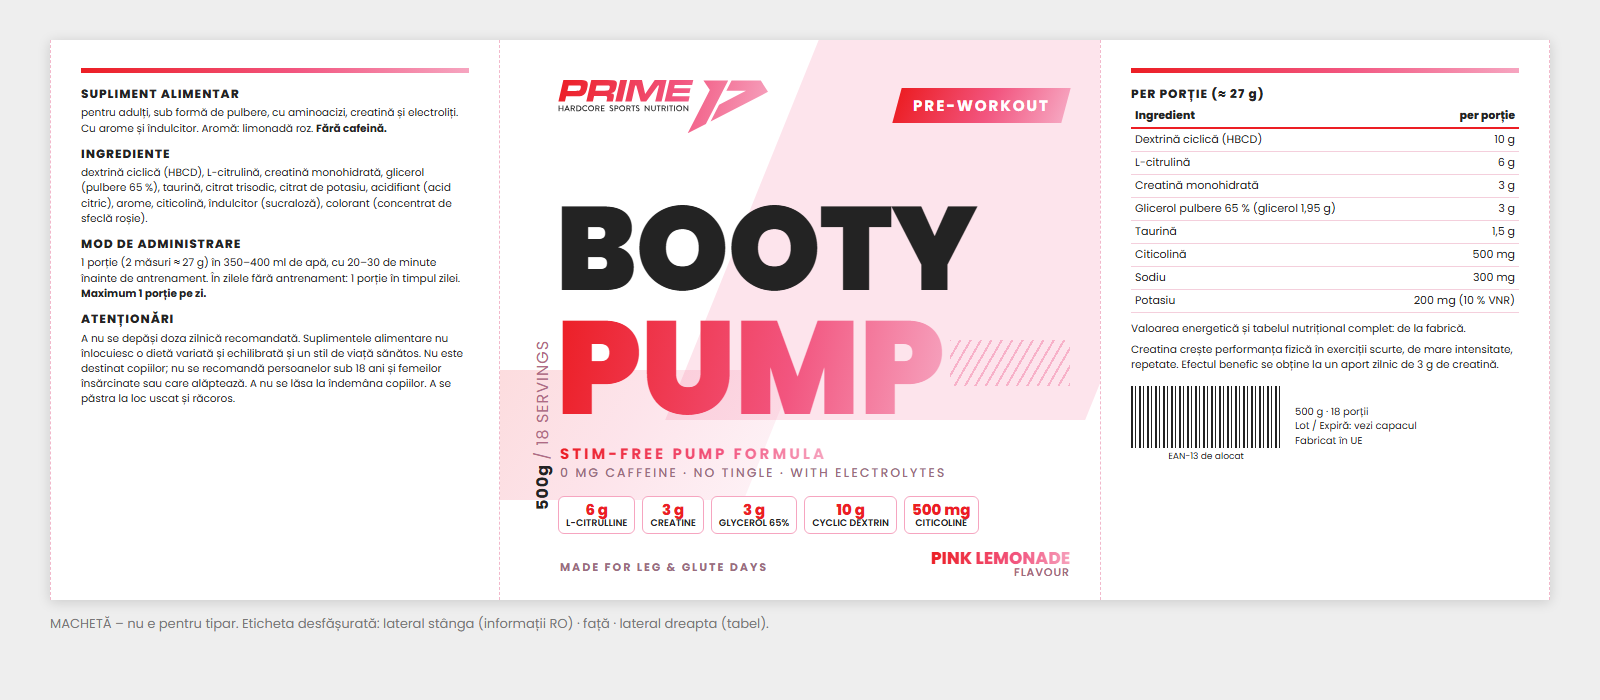
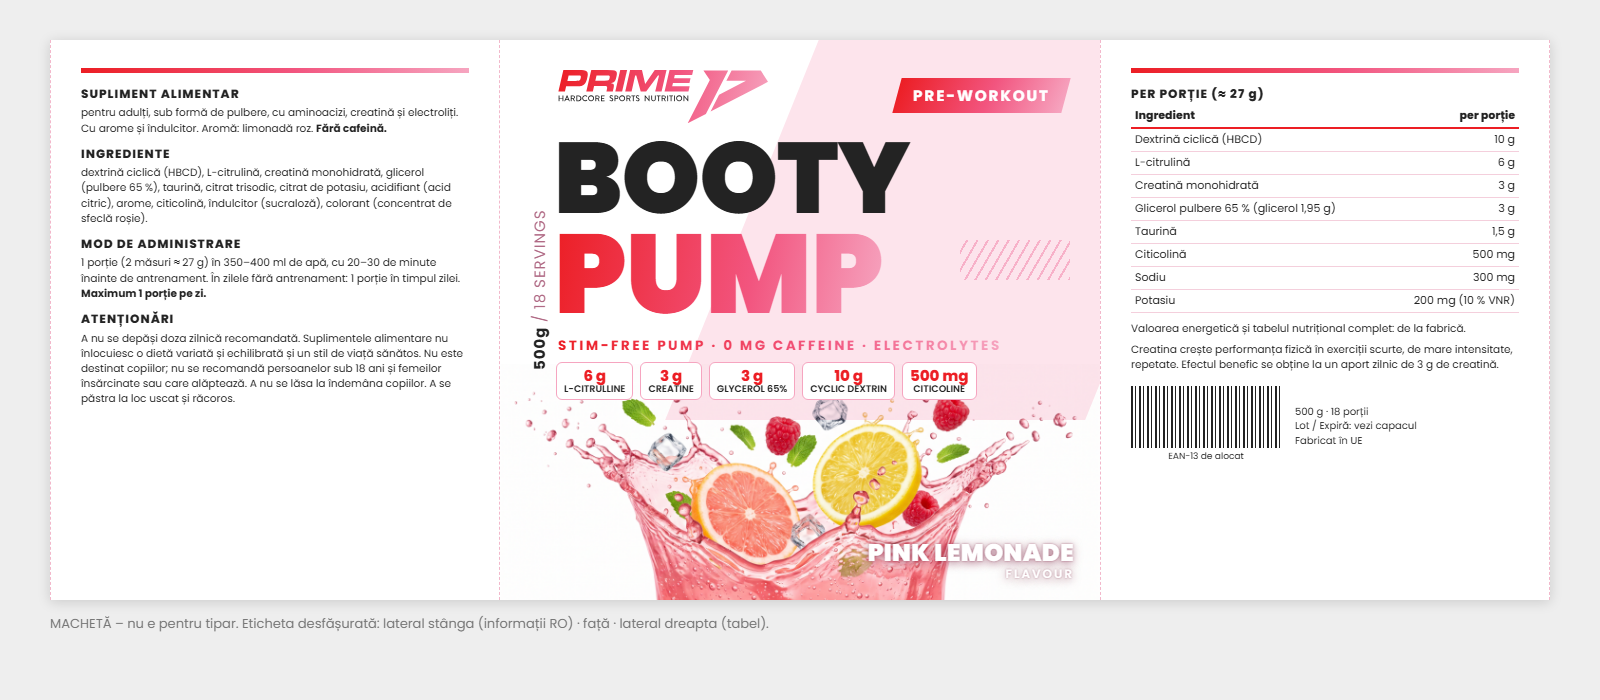
Booty Pump: macheta cu splash de aroma (Pink Lemonade, Forest Fruits)

diff --git a/primesupplements.ro-audit/produse-noi/booty-pump/macheta/macheta-flacoane.html b/primesupplements.ro-audit/produse-noi/booty-pump/macheta/macheta-flacoane.html
@@ -5,24 +5,21 @@ body{font-family:Poppins,Arial,sans-serif;color:#232323}
 .gtext{background:linear-gradient(100deg,#ec1e24 0%,#f2557f 60%,#f6a5c0 100%);-webkit-background-clip:text;background-clip:text;color:transparent}
 .front{position:relative;width:600px;height:560px;background:#fff;overflow:hidden;flex:none}
 .front .shape1{position:absolute;left:250px;top:-40px;width:420px;height:420px;background:#fde4ec;transform:skewX(-22deg)}
-.front .shape2{position:absolute;left:-60px;top:330px;width:330px;height:130px;transform:skewX(-22deg)}
-.front .lines{position:absolute;right:30px;top:300px;width:120px;height:46px;background:repeating-linear-gradient(-60deg,#f6a5c0 0 2px,transparent 2px 9px);opacity:.8}
-.front .vert{position:absolute;left:30px;top:470px;transform:rotate(-90deg);transform-origin:left top;font-size:16px;font-weight:700;letter-spacing:1px;white-space:nowrap}
+.front .lines{position:absolute;right:30px;top:200px;width:110px;height:40px;background:repeating-linear-gradient(-60deg,#f6a5c0 0 2px,transparent 2px 9px);opacity:.8}
+.front .vert{position:absolute;left:28px;top:330px;transform:rotate(-90deg);transform-origin:left top;font-size:15px;font-weight:700;letter-spacing:1px;white-space:nowrap;z-index:3}
 .front .vert span{font-weight:400;color:#b06a85}
-.front .logo{position:absolute;left:58px;top:40px}
-.front .pill{position:absolute;right:34px;top:48px;color:#fff;font-size:15px;letter-spacing:2px;padding:6px 16px;transform:skewX(-15deg)}
+.front .logo{position:absolute;left:58px;top:30px}
+.front .pill{position:absolute;right:34px;top:38px;color:#fff;font-size:15px;letter-spacing:2px;padding:6px 16px;transform:skewX(-15deg)}
 .front .pill b{display:inline-block;transform:skewX(15deg);font-weight:700}
-.front .ghost{position:absolute;left:170px;top:112px;font-size:96px;font-weight:900;letter-spacing:2px;color:transparent;-webkit-text-stroke:1.5px #f6a5c0;opacity:.9}
-.front .t1{position:absolute;left:56px;top:150px;font-size:118px;line-height:1;font-weight:900;letter-spacing:-1px;color:#232323}
-.front .t2{position:absolute;left:56px;top:262px;font-size:132px;line-height:1;font-weight:900;letter-spacing:-1px}
-.front .sub{position:absolute;left:60px;top:402px;font-size:15px;font-weight:700;letter-spacing:3px}
-.front .sub2{position:absolute;left:60px;top:424px;font-size:12.5px;font-weight:500;letter-spacing:2px;color:#9a6d7e}
-.front .badges{position:absolute;left:58px;top:456px;display:flex;gap:7px}
+.front .t1{position:absolute;left:54px;top:88px;font-size:100px;line-height:1;font-weight:900;letter-spacing:-1px;color:#232323}
+.front .t2{position:absolute;left:54px;top:178px;font-size:112px;line-height:1;font-weight:900;letter-spacing:-1px}
+.front .sub{position:absolute;left:58px;top:296px;font-size:13.5px;font-weight:700;letter-spacing:2.5px;white-space:nowrap}
+.front .badges{position:absolute;left:56px;top:322px;display:flex;gap:7px;z-index:3}
 .front .badge{border:1.5px solid #f6a5c0;border-radius:6px;padding:4px 7px;font-size:9.5px;line-height:1.15;font-weight:600;text-align:center;background:#fff}
 .front .badge b{display:block;font-size:15px;font-weight:800;color:#ec1e24}
-.front .flav{position:absolute;right:30px;bottom:22px;text-align:right;font-weight:800;font-size:17px;line-height:1}
-.front .flav small{display:block;font-weight:500;font-size:11px;color:#9a6d7e;letter-spacing:1px}
-.front .day{position:absolute;left:60px;bottom:24px;font-size:11px;font-weight:700;letter-spacing:2px;color:#9a6d7e}
+.front .splash{position:absolute;left:0;bottom:0;width:600px;height:236px;object-fit:cover;object-position:50% 80%;mix-blend-mode:multiply;z-index:1}
+.front .flav{position:absolute;right:26px;bottom:20px;text-align:right;font-weight:900;font-size:24px;line-height:1;color:#fff;letter-spacing:.5px;text-shadow:0 2px 10px rgba(110,0,40,.55),0 0 2px rgba(110,0,40,.5);z-index:3}
+.front .flav small{display:block;font-weight:600;font-size:12px;letter-spacing:2px;margin-top:3px}
 
 body{width:2000px;height:1200px;background:radial-gradient(ellipse at 50% 35%,#ffffff 0%,#fdf2f6 55%,#f7dce6 100%);position:relative;overflow:hidden}
 .floor{position:absolute;left:0;right:0;top:996px;bottom:0;background:linear-gradient(#f3d3df,#f8e3ea)}
@@ -48,15 +45,14 @@ body{width:2000px;height:1200px;background:radial-gradient(ellipse at 50% 35%,#f
   <div class="body"><div class="label">
 <div class="front">
   <div class="shape1"></div>
-  <div class="shape2 grad" style="opacity:.16"></div>
   <div class="lines"></div>
+  <img class="splash" src="splash-pink-lemonade.png" alt="">
   <div class="vert">500g <span>/ 18 SERVINGS</span></div>
   <div class="logo"><svg width="210" viewBox="0 0 226.77 57.52" xmlns="http://www.w3.org/2000/svg" ><defs><linearGradient id="a-grad" gradientUnits="userSpaceOnUse" x1="0" y1="0" x2="226.77" y2="57.52"><stop offset="0" stop-color="#ec1e24"/><stop offset=".55" stop-color="#f2557f"/><stop offset="1" stop-color="#f6a5c0"/></linearGradient><style>.a-t{fill:#232323;}.a-g{fill:url(#a-grad);}</style></defs><polygon points="226.77 12.8 164.75 44.72 173.96 26.8 203 11.53 181.81 11.53 187.46 .56 219.01 .56 226.77 12.8" class="a-g"></polygon><polygon points="183.77 .56 159.7 47.4 140.04 57.52 163.97 10.82 157.06 .56 183.77 .56" class="a-g"></polygon><path d="m.68,27.63c0-.1.08-.17.17-.17h.59c.1,0,.17.08.17.17v2.48h3.26v-2.48c0-.09.07-.17.16-.17h.59c.1,0,.17.08.17.17v5.9c0,.1-.08.17-.17.17h-.59c-.09,0-.16-.08-.16-.17v-2.62H1.61v2.57c0,.1-.08.17-.17.17h-.59c-.1,0-.17-.08-.17-.17v-5.85Z" class="a-t"></path><path d="m6.85,33.38l2.74-5.99c.03-.06.09-.1.15-.1h.09c.06,0,.12.05.15.1l2.71,5.99c.04.08.02.18-.06.22-.03.02-.06.02-.09.02h-.56c-.09,0-.17-.05-.2-.14l-.49-1.18h-2.98c-.17.4-.37.8-.54,1.22-.04.08-.12.13-.21.14h-.56c-.09.02-.17-.03-.2-.11-.02-.06,0-.12.05-.16Zm4.03-1.89l-1.09-2.44h0l-1.09,2.44h2.18Z" class="a-t"></path><path d="m13.75,27.63c0-.1.08-.17.17-.17h2.43c1.06-.01,1.93.84,1.94,1.9,0,0,0,0,0,.01-.06.78-.58,1.45-1.32,1.71l1.22,2.3c.05.08.03.19-.05.24-.03.02-.06.03-.1.03h-.69c-.06,0-.12-.03-.15-.08l-1.15-2.37h-1.38v2.3c0,.1-.08.17-.17.17h-.57c-.1,0-.17-.08-.17-.17h0v-5.86Zm2.53,2.85c.6,0,1.08-.48,1.08-1.08,0-.6-.48-1.08-1.08-1.08h-1.54v2.16h1.54Z" class="a-t"></path><path d="m19.84,27.63c0-.09.07-.17.16-.17h2.05c1.72-.1,3.21,1.21,3.31,2.93.1,1.72-1.21,3.21-2.93,3.31-.13,0-.25,0-.38,0h-2.05c-.09,0-.16-.08-.16-.17v-5.9Zm2.08,5.22c1.27,0,2.3-1.03,2.3-2.3s-1.03-2.3-2.3-2.3h-1.15v4.6h1.15Z" class="a-t"></path><path d="m29.38,27.32c.8-.02,1.58.28,2.16.83.07.06.07.17,0,.24,0,0,0,0,0,0l-.39.4c-.04.06-.13.08-.19.04-.02-.01-.03-.02-.04-.04-.43-.38-.97-.59-1.54-.6-1.27,0-2.3,1.03-2.3,2.3s1.03,2.3,2.3,2.3c.57,0,1.12-.2,1.55-.57.06-.05.15-.05.22,0l.41.4c.07.07.07.17,0,.24-.58.56-1.36.87-2.17.86-1.77,0-3.21-1.44-3.21-3.21s1.44-3.21,3.21-3.21h-.01Z" class="a-t"></path><path d="m35.71,27.32c1.77,0,3.21,1.42,3.22,3.2s-1.42,3.21-3.2,3.22c-1.77,0-3.21-1.42-3.22-3.2,0-1.77,1.42-3.21,3.2-3.22h0Zm0,5.53c1.27,0,2.3-1.03,2.3-2.3s-1.03-2.3-2.3-2.3-2.3,1.03-2.3,2.3,1.03,2.3,2.3,2.3t0,0Z" class="a-t"></path><path d="m40.35,27.63c0-.1.08-.17.17-.17h2.43c1.06-.01,1.93.84,1.94,1.9,0,0,0,0,0,.01-.06.78-.58,1.46-1.32,1.71l1.23,2.3c.05.08.03.19-.05.24-.03.02-.07.03-.11.03h-.69c-.06,0-.11-.03-.15-.08l-1.15-2.37h-1.38v2.3c0,.09-.07.17-.16.17h-.59c-.1,0-.17-.08-.17-.17h0v-5.86Zm2.53,2.85c.6,0,1.08-.48,1.08-1.08s-.48-1.08-1.08-1.08h-1.59v2.16h1.59Z" class="a-t"></path><path d="m46.44,27.63c0-.1.08-.17.17-.17h3.56c.09-.01.18.05.19.15,0,0,0,.02,0,.02v.49c0,.1-.08.17-.17.17h-2.84v1.82h2.38c.1,0,.17.08.17.17h0v.49c0,.1-.08.17-.17.17h-2.38v1.91h2.82c.1,0,.17.08.17.17h0v.49c0,.1-.08.17-.17.17h-3.56c-.1,0-.17-.08-.17-.17h0s0-5.9,0-5.9Z" class="a-t"></path><path d="m55.7,32.74c.08-.11.15-.25.23-.37.05-.1.18-.14.28-.09.01,0,.02.01.03.02.4.35.9.57,1.43.62.49.06.94-.29,1-.78,0-.01,0-.03,0-.04,0-.54-.46-.87-1.34-1.24s-1.62-.86-1.62-1.9c.05-.96.87-1.7,1.84-1.65.04,0,.08,0,.12.01.59,0,1.16.19,1.64.53.08.07.09.19.02.28,0,0-.02.02-.02.02l-.22.34c-.05.1-.17.15-.27.1-.01,0-.02-.01-.04-.02-.35-.23-.74-.38-1.15-.44-.75,0-1.01.47-1.01.79,0,.52.39.83,1.15,1.15,1.03.43,1.91.91,1.91,2-.07,1-.94,1.75-1.94,1.68-.01,0-.02,0-.04,0-.7.01-1.39-.24-1.92-.7-.09-.09-.16-.16-.07-.31Z" class="a-t"></path><path d="m61.05,27.63c0-.09.07-.17.16-.17h2.03c1.09,0,1.98.87,2,1.97,0,1.1-.89,2-1.99,2.01h-1.3v2.09c0,.09-.07.17-.16.17h-.59c-.09,0-.16-.08-.16-.17v-5.9Zm2.14,2.93c.63,0,1.15-.51,1.15-1.15-.04-.6-.54-1.07-1.15-1.07h-1.23v2.22h1.23Z" class="a-t"></path><path d="m69.25,27.32c1.77,0,3.21,1.42,3.22,3.2s-1.42,3.21-3.2,3.22c-1.77,0-3.21-1.42-3.22-3.2,0-1.77,1.42-3.21,3.2-3.22h0Zm0,5.53c1.27,0,2.3-1.03,2.3-2.3s-1.03-2.3-2.3-2.3-2.3,1.03-2.3,2.3,1.03,2.3,2.3,2.3h0Z" class="a-t"></path><path d="m73.89,27.63c0-.1.08-.17.17-.17h2.43c1.06-.01,1.93.84,1.94,1.9,0,0,0,0,0,.01-.06.78-.58,1.45-1.32,1.71l1.22,2.3c.05.08.03.19-.05.24-.03.02-.06.03-.1.03h-.69c-.06,0-.12-.03-.15-.08l-1.15-2.37h-1.38v2.3c0,.1-.08.17-.17.17h-.57c-.1,0-.17-.08-.17-.17h0v-5.86Zm2.53,2.85c.6,0,1.08-.48,1.08-1.08s-.48-1.08-1.08-1.08h-1.59v2.16h1.59Z" class="a-t"></path><path d="m80.84,28.25h-1.45c-.1,0-.17-.08-.17-.17h0v-.45c0-.1.08-.17.17-.17h3.83c.1,0,.17.08.17.17h0v.49c0,.1-.08.17-.17.17h-1.45v5.23c0,.1-.08.17-.17.17h-.59c-.1,0-.17-.08-.17-.17h0s0-5.28,0-5.28Z" class="a-t"></path><path d="m84.11,32.74c.08-.11.15-.25.23-.37.05-.1.16-.14.26-.09.01,0,.03.01.04.02.4.35.9.56,1.43.62.49.06.94-.28,1.01-.77,0-.02,0-.04,0-.06,0-.54-.46-.87-1.34-1.24s-1.62-.86-1.62-1.9c.04-.96.85-1.7,1.81-1.66.05,0,.1,0,.14.01.59,0,1.16.19,1.64.53.08.08.09.21,0,.29,0,0,0,0,0,0l-.23.34c-.05.1-.17.15-.27.1-.01,0-.02-.01-.04-.02-.34-.23-.74-.38-1.15-.44-.76,0-1.01.47-1.01.79,0,.52.39.83,1.15,1.15,1.03.43,1.92.91,1.92,2-.07,1-.94,1.75-1.94,1.68-.02,0-.03,0-.05,0-.7,0-1.38-.24-1.91-.7-.09-.09-.16-.16-.07-.31Z" class="a-t"></path><path d="m93.7,27.48c0-.09.08-.16.17-.16h.18l3.87,4.47h0v-4.16c0-.09.07-.17.16-.17h.57c.1,0,.17.08.17.17h0v5.99c0,.09-.08.16-.17.16h-.23l-3.87-4.6h0v4.35c0,.1-.08.17-.17.17h-.56c-.1,0-.17-.08-.17-.17h0s.05-6.05.05-6.05Z" class="a-t"></path><path d="m100.69,27.63c0-.1.08-.17.17-.17h.6c.1,0,.17.08.17.17h0v3.68c-.07.82.54,1.55,1.36,1.62.82.07,1.55-.54,1.62-1.36,0-.09,0-.17,0-.26v-3.68c0-.1.08-.17.17-.17h.59c.1,0,.18.07.18.16,0,0,0,0,0,.01v3.74c0,1.34-1.09,2.43-2.43,2.43s-2.43-1.09-2.43-2.43h0v-3.74Z" class="a-t"></path><path d="m108.21,28.25h-1.45c-.1,0-.17-.08-.17-.17h0v-.45c0-.1.08-.17.17-.17h3.83c.1,0,.17.08.17.17h0v.49c0,.1-.08.17-.17.17h-1.45v5.23c0,.1-.08.17-.17.17h-.59c-.1,0-.17-.08-.17-.17h0s0-5.28,0-5.28Z" class="a-t"></path><path d="m111.89,27.63c0-.09.07-.17.16-.17h2.43c1.06-.01,1.93.84,1.94,1.9,0,0,0,0,0,.01-.06.78-.57,1.45-1.31,1.71l1.22,2.3c.05.08.03.19-.05.24-.03.02-.06.03-.1.03h-.7c-.06,0-.11-.03-.14-.08l-1.15-2.37h-1.34v2.3c0,.1-.08.17-.17.17h-.59c-.09,0-.16-.08-.16-.17l-.03-5.86Zm2.52,2.85c.6,0,1.08-.48,1.08-1.08s-.48-1.08-1.08-1.08h-1.59v2.16h1.59Z" class="a-t"></path><path d="m117.97,27.63c0-.1.08-.17.17-.17h.59c.1,0,.17.08.17.17v5.9c0,.1-.08.17-.17.17h-.53c-.1,0-.17-.08-.17-.17l-.06-5.9Z" class="a-t"></path><path d="m121.65,28.25h-1.45c-.1,0-.17-.08-.17-.17v-.45c0-.1.08-.17.17-.17h3.83c.1,0,.17.08.17.17v.49c0,.1-.08.17-.17.17h-1.45v5.23c0,.1-.08.17-.17.17h-.59c-.1,0-.17-.08-.17-.17v-5.28Z" class="a-t"></path><path d="m125.32,27.63c0-.09.07-.17.16-.17h.59c.1,0,.17.08.17.17h0v5.9c0,.1-.08.17-.17.17h-.59c-.09,0-.16-.08-.16-.17v-5.9Z" class="a-t"></path><path d="m130.84,27.32c1.77,0,3.21,1.44,3.21,3.21s-1.44,3.21-3.21,3.21-3.21-1.44-3.21-3.21,1.44-3.21,3.21-3.21Zm0,5.53c1.27,0,2.3-1.03,2.3-2.3s-1.03-2.3-2.3-2.3-2.3,1.03-2.3,2.3,1.03,2.3,2.3,2.3h0Z" class="a-t"></path><path d="m135.53,27.48c0-.09.07-.16.16-.16h.23l3.86,4.47h0v-4.16c0-.1.08-.17.17-.17h.56c.1,0,.17.08.17.17v5.99c0,.09-.08.16-.17.16h-.23l-3.86-4.6h0v4.35c0,.1-.08.17-.17.17h-.56c-.09,0-.16-.08-.16-.17v-6.05Z" class="a-t"></path><path d="m5.78.04h15.85c2.08-.09,4.17-.02,6.24.21,4.23.67,5.05,2.54,3.68,8.48-1.15,5.15-2.6,7.16-5.61,8.17-1.69.52-3.29.66-8.29.66h-8.86l-1.31,5.67H.43L5.78.04Zm13.17,11.71c3.28,0,3.45,0,4.09-.38s1.15-1.05,1.48-2.64.23-2.37-.6-2.68c-.45-.17-.52-.17-3.61-.21h-8.83l-1.36,5.91h8.82Z" class="a-g"></path><path d="m35.92.04h17.07q8.05,0,9.28.91c1.53,1.07,1.69,2.6.76,6.63-.79,3.45-1.45,4.77-2.91,5.75-.88.57-1.9.9-2.94.98,3.45.41,3.87,1.46,2.49,6.82l-.49,2.15h-6.9l.28-1.22c.61-2.6.67-3.45.24-4.02s-.86-.63-3.78-.63h-10.04l-1.36,5.87h-7.06L35.92.04Zm14.33,11.5q3.56,0,4.14-.4c.57-.4,1-1.05,1.33-2.51s.24-2.23-.41-2.54c-.44-.21-.55-.21-3.74-.24h-9.94l-1.32,5.75,9.94-.06Z" class="a-g"></path><path d="m74.62.04l-5.36,23.19h-7.39L67.2.04h7.41Z" class="a-g"></path><path d="m90.68.04l3.45,15.06L104.47.04h12.73l-5.35,23.19h-6.9l4.17-17.35h-1.15l-12.77,17.35h-5.87l-4.77-17.35h-1.25l-3.83,17.35h-6.9L77.88.04h12.79Z" class="a-g"></path><path d="m146.08.04l-1.25,5.46h-18.7l-.78,3.37h17.76l-1.15,5.12h-17.79l-.85,3.68h18.85l-1.29,5.56h-25.8L120.43.04h25.66Z" class="a-g"></path></svg></div>
   <div class="pill grad"><b>PRE-WORKOUT</b></div>
   <div class="t1">BOOTY</div>
   <div class="t2 gtext">PUMP</div>
-  <div class="sub gtext">STIM-FREE PUMP FORMULA</div>
-  <div class="sub2">0 MG CAFFEINE · NO TINGLE · WITH ELECTROLYTES</div>
+  <div class="sub gtext">STIM-FREE PUMP · 0 MG CAFFEINE · ELECTROLYTES</div>
   <div class="badges">
     <div class="badge"><b>6 g</b>L-CITRULLINE</div>
     <div class="badge"><b>3 g</b>CREATINE</div>
@@ -64,8 +60,7 @@ body{width:2000px;height:1200px;background:radial-gradient(ellipse at 50% 35%,#f
     <div class="badge"><b>10 g</b>CYCLIC DEXTRIN</div>
     <div class="badge"><b>500 mg</b>CITICOLINE</div>
   </div>
-  <div class="day">MADE FOR LEG &amp; GLUTE DAYS</div>
-  <div class="flav gtext">PINK LEMONADE<small>FLAVOUR</small></div>
+  <div class="flav">PINK LEMONADE<small>FLAVOUR</small></div>
 </div></div><div class="shade"></div></div>
 </div>
 
@@ -75,15 +70,14 @@ body{width:2000px;height:1200px;background:radial-gradient(ellipse at 50% 35%,#f
   <div class="body"><div class="label">
 <div class="front">
   <div class="shape1"></div>
-  <div class="shape2 grad" style="opacity:.16"></div>
   <div class="lines"></div>
+  <img class="splash" src="splash-fructe-de-padure.png" alt="">
   <div class="vert">500g <span>/ 18 SERVINGS</span></div>
   <div class="logo"><svg width="210" viewBox="0 0 226.77 57.52" xmlns="http://www.w3.org/2000/svg" ><defs><linearGradient id="b-grad" gradientUnits="userSpaceOnUse" x1="0" y1="0" x2="226.77" y2="57.52"><stop offset="0" stop-color="#ec1e24"/><stop offset=".55" stop-color="#f2557f"/><stop offset="1" stop-color="#f6a5c0"/></linearGradient><style>.b-t{fill:#232323;}.b-g{fill:url(#b-grad);}</style></defs><polygon points="226.77 12.8 164.75 44.72 173.96 26.8 203 11.53 181.81 11.53 187.46 .56 219.01 .56 226.77 12.8" class="b-g"></polygon><polygon points="183.77 .56 159.7 47.4 140.04 57.52 163.97 10.82 157.06 .56 183.77 .56" class="b-g"></polygon><path d="m.68,27.63c0-.1.08-.17.17-.17h.59c.1,0,.17.08.17.17v2.48h3.26v-2.48c0-.09.07-.17.16-.17h.59c.1,0,.17.08.17.17v5.9c0,.1-.08.17-.17.17h-.59c-.09,0-.16-.08-.16-.17v-2.62H1.61v2.57c0,.1-.08.17-.17.17h-.59c-.1,0-.17-.08-.17-.17v-5.85Z" class="b-t"></path><path d="m6.85,33.38l2.74-5.99c.03-.06.09-.1.15-.1h.09c.06,0,.12.05.15.1l2.71,5.99c.04.08.02.18-.06.22-.03.02-.06.02-.09.02h-.56c-.09,0-.17-.05-.2-.14l-.49-1.18h-2.98c-.17.4-.37.8-.54,1.22-.04.08-.12.13-.21.14h-.56c-.09.02-.17-.03-.2-.11-.02-.06,0-.12.05-.16Zm4.03-1.89l-1.09-2.44h0l-1.09,2.44h2.18Z" class="b-t"></path><path d="m13.75,27.63c0-.1.08-.17.17-.17h2.43c1.06-.01,1.93.84,1.94,1.9,0,0,0,0,0,.01-.06.78-.58,1.45-1.32,1.71l1.22,2.3c.05.08.03.19-.05.24-.03.02-.06.03-.1.03h-.69c-.06,0-.12-.03-.15-.08l-1.15-2.37h-1.38v2.3c0,.1-.08.17-.17.17h-.57c-.1,0-.17-.08-.17-.17h0v-5.86Zm2.53,2.85c.6,0,1.08-.48,1.08-1.08,0-.6-.48-1.08-1.08-1.08h-1.54v2.16h1.54Z" class="b-t"></path><path d="m19.84,27.63c0-.09.07-.17.16-.17h2.05c1.72-.1,3.21,1.21,3.31,2.93.1,1.72-1.21,3.21-2.93,3.31-.13,0-.25,0-.38,0h-2.05c-.09,0-.16-.08-.16-.17v-5.9Zm2.08,5.22c1.27,0,2.3-1.03,2.3-2.3s-1.03-2.3-2.3-2.3h-1.15v4.6h1.15Z" class="b-t"></path><path d="m29.38,27.32c.8-.02,1.58.28,2.16.83.07.06.07.17,0,.24,0,0,0,0,0,0l-.39.4c-.04.06-.13.08-.19.04-.02-.01-.03-.02-.04-.04-.43-.38-.97-.59-1.54-.6-1.27,0-2.3,1.03-2.3,2.3s1.03,2.3,2.3,2.3c.57,0,1.12-.2,1.55-.57.06-.05.15-.05.22,0l.41.4c.07.07.07.17,0,.24-.58.56-1.36.87-2.17.86-1.77,0-3.21-1.44-3.21-3.21s1.44-3.21,3.21-3.21h-.01Z" class="b-t"></path><path d="m35.71,27.32c1.77,0,3.21,1.42,3.22,3.2s-1.42,3.21-3.2,3.22c-1.77,0-3.21-1.42-3.22-3.2,0-1.77,1.42-3.21,3.2-3.22h0Zm0,5.53c1.27,0,2.3-1.03,2.3-2.3s-1.03-2.3-2.3-2.3-2.3,1.03-2.3,2.3,1.03,2.3,2.3,2.3t0,0Z" class="b-t"></path><path d="m40.35,27.63c0-.1.08-.17.17-.17h2.43c1.06-.01,1.93.84,1.94,1.9,0,0,0,0,0,.01-.06.78-.58,1.46-1.32,1.71l1.23,2.3c.05.08.03.19-.05.24-.03.02-.07.03-.11.03h-.69c-.06,0-.11-.03-.15-.08l-1.15-2.37h-1.38v2.3c0,.09-.07.17-.16.17h-.59c-.1,0-.17-.08-.17-.17h0v-5.86Zm2.53,2.85c.6,0,1.08-.48,1.08-1.08s-.48-1.08-1.08-1.08h-1.59v2.16h1.59Z" class="b-t"></path><path d="m46.44,27.63c0-.1.08-.17.17-.17h3.56c.09-.01.18.05.19.15,0,0,0,.02,0,.02v.49c0,.1-.08.17-.17.17h-2.84v1.82h2.38c.1,0,.17.08.17.17h0v.49c0,.1-.08.17-.17.17h-2.38v1.91h2.82c.1,0,.17.08.17.17h0v.49c0,.1-.08.17-.17.17h-3.56c-.1,0-.17-.08-.17-.17h0s0-5.9,0-5.9Z" class="b-t"></path><path d="m55.7,32.74c.08-.11.15-.25.23-.37.05-.1.18-.14.28-.09.01,0,.02.01.03.02.4.35.9.57,1.43.62.49.06.94-.29,1-.78,0-.01,0-.03,0-.04,0-.54-.46-.87-1.34-1.24s-1.62-.86-1.62-1.9c.05-.96.87-1.7,1.84-1.65.04,0,.08,0,.12.01.59,0,1.16.19,1.64.53.08.07.09.19.02.28,0,0-.02.02-.02.02l-.22.34c-.05.1-.17.15-.27.1-.01,0-.02-.01-.04-.02-.35-.23-.74-.38-1.15-.44-.75,0-1.01.47-1.01.79,0,.52.39.83,1.15,1.15,1.03.43,1.91.91,1.91,2-.07,1-.94,1.75-1.94,1.68-.01,0-.02,0-.04,0-.7.01-1.39-.24-1.92-.7-.09-.09-.16-.16-.07-.31Z" class="b-t"></path><path d="m61.05,27.63c0-.09.07-.17.16-.17h2.03c1.09,0,1.98.87,2,1.97,0,1.1-.89,2-1.99,2.01h-1.3v2.09c0,.09-.07.17-.16.17h-.59c-.09,0-.16-.08-.16-.17v-5.9Zm2.14,2.93c.63,0,1.15-.51,1.15-1.15-.04-.6-.54-1.07-1.15-1.07h-1.23v2.22h1.23Z" class="b-t"></path><path d="m69.25,27.32c1.77,0,3.21,1.42,3.22,3.2s-1.42,3.21-3.2,3.22c-1.77,0-3.21-1.42-3.22-3.2,0-1.77,1.42-3.21,3.2-3.22h0Zm0,5.53c1.27,0,2.3-1.03,2.3-2.3s-1.03-2.3-2.3-2.3-2.3,1.03-2.3,2.3,1.03,2.3,2.3,2.3h0Z" class="b-t"></path><path d="m73.89,27.63c0-.1.08-.17.17-.17h2.43c1.06-.01,1.93.84,1.94,1.9,0,0,0,0,0,.01-.06.78-.58,1.45-1.32,1.71l1.22,2.3c.05.08.03.19-.05.24-.03.02-.06.03-.1.03h-.69c-.06,0-.12-.03-.15-.08l-1.15-2.37h-1.38v2.3c0,.1-.08.17-.17.17h-.57c-.1,0-.17-.08-.17-.17h0v-5.86Zm2.53,2.85c.6,0,1.08-.48,1.08-1.08s-.48-1.08-1.08-1.08h-1.59v2.16h1.59Z" class="b-t"></path><path d="m80.84,28.25h-1.45c-.1,0-.17-.08-.17-.17h0v-.45c0-.1.08-.17.17-.17h3.83c.1,0,.17.08.17.17h0v.49c0,.1-.08.17-.17.17h-1.45v5.23c0,.1-.08.17-.17.17h-.59c-.1,0-.17-.08-.17-.17h0s0-5.28,0-5.28Z" class="b-t"></path><path d="m84.11,32.74c.08-.11.15-.25.23-.37.05-.1.16-.14.26-.09.01,0,.03.01.04.02.4.35.9.56,1.43.62.49.06.94-.28,1.01-.77,0-.02,0-.04,0-.06,0-.54-.46-.87-1.34-1.24s-1.62-.86-1.62-1.9c.04-.96.85-1.7,1.81-1.66.05,0,.1,0,.14.01.59,0,1.16.19,1.64.53.08.08.09.21,0,.29,0,0,0,0,0,0l-.23.34c-.05.1-.17.15-.27.1-.01,0-.02-.01-.04-.02-.34-.23-.74-.38-1.15-.44-.76,0-1.01.47-1.01.79,0,.52.39.83,1.15,1.15,1.03.43,1.92.91,1.92,2-.07,1-.94,1.75-1.94,1.68-.02,0-.03,0-.05,0-.7,0-1.38-.24-1.91-.7-.09-.09-.16-.16-.07-.31Z" class="b-t"></path><path d="m93.7,27.48c0-.09.08-.16.17-.16h.18l3.87,4.47h0v-4.16c0-.09.07-.17.16-.17h.57c.1,0,.17.08.17.17h0v5.99c0,.09-.08.16-.17.16h-.23l-3.87-4.6h0v4.35c0,.1-.08.17-.17.17h-.56c-.1,0-.17-.08-.17-.17h0s.05-6.05.05-6.05Z" class="b-t"></path><path d="m100.69,27.63c0-.1.08-.17.17-.17h.6c.1,0,.17.08.17.17h0v3.68c-.07.82.54,1.55,1.36,1.62.82.07,1.55-.54,1.62-1.36,0-.09,0-.17,0-.26v-3.68c0-.1.08-.17.17-.17h.59c.1,0,.18.07.18.16,0,0,0,0,0,.01v3.74c0,1.34-1.09,2.43-2.43,2.43s-2.43-1.09-2.43-2.43h0v-3.74Z" class="b-t"></path><path d="m108.21,28.25h-1.45c-.1,0-.17-.08-.17-.17h0v-.45c0-.1.08-.17.17-.17h3.83c.1,0,.17.08.17.17h0v.49c0,.1-.08.17-.17.17h-1.45v5.23c0,.1-.08.17-.17.17h-.59c-.1,0-.17-.08-.17-.17h0s0-5.28,0-5.28Z" class="b-t"></path><path d="m111.89,27.63c0-.09.07-.17.16-.17h2.43c1.06-.01,1.93.84,1.94,1.9,0,0,0,0,0,.01-.06.78-.57,1.45-1.31,1.71l1.22,2.3c.05.08.03.19-.05.24-.03.02-.06.03-.1.03h-.7c-.06,0-.11-.03-.14-.08l-1.15-2.37h-1.34v2.3c0,.1-.08.17-.17.17h-.59c-.09,0-.16-.08-.16-.17l-.03-5.86Zm2.52,2.85c.6,0,1.08-.48,1.08-1.08s-.48-1.08-1.08-1.08h-1.59v2.16h1.59Z" class="b-t"></path><path d="m117.97,27.63c0-.1.08-.17.17-.17h.59c.1,0,.17.08.17.17v5.9c0,.1-.08.17-.17.17h-.53c-.1,0-.17-.08-.17-.17l-.06-5.9Z" class="b-t"></path><path d="m121.65,28.25h-1.45c-.1,0-.17-.08-.17-.17v-.45c0-.1.08-.17.17-.17h3.83c.1,0,.17.08.17.17v.49c0,.1-.08.17-.17.17h-1.45v5.23c0,.1-.08.17-.17.17h-.59c-.1,0-.17-.08-.17-.17v-5.28Z" class="b-t"></path><path d="m125.32,27.63c0-.09.07-.17.16-.17h.59c.1,0,.17.08.17.17h0v5.9c0,.1-.08.17-.17.17h-.59c-.09,0-.16-.08-.16-.17v-5.9Z" class="b-t"></path><path d="m130.84,27.32c1.77,0,3.21,1.44,3.21,3.21s-1.44,3.21-3.21,3.21-3.21-1.44-3.21-3.21,1.44-3.21,3.21-3.21Zm0,5.53c1.27,0,2.3-1.03,2.3-2.3s-1.03-2.3-2.3-2.3-2.3,1.03-2.3,2.3,1.03,2.3,2.3,2.3h0Z" class="b-t"></path><path d="m135.53,27.48c0-.09.07-.16.16-.16h.23l3.86,4.47h0v-4.16c0-.1.08-.17.17-.17h.56c.1,0,.17.08.17.17v5.99c0,.09-.08.16-.17.16h-.23l-3.86-4.6h0v4.35c0,.1-.08.17-.17.17h-.56c-.09,0-.16-.08-.16-.17v-6.05Z" class="b-t"></path><path d="m5.78.04h15.85c2.08-.09,4.17-.02,6.24.21,4.23.67,5.05,2.54,3.68,8.48-1.15,5.15-2.6,7.16-5.61,8.17-1.69.52-3.29.66-8.29.66h-8.86l-1.31,5.67H.43L5.78.04Zm13.17,11.71c3.28,0,3.45,0,4.09-.38s1.15-1.05,1.48-2.64.23-2.37-.6-2.68c-.45-.17-.52-.17-3.61-.21h-8.83l-1.36,5.91h8.82Z" class="b-g"></path><path d="m35.92.04h17.07q8.05,0,9.28.91c1.53,1.07,1.69,2.6.76,6.63-.79,3.45-1.45,4.77-2.91,5.75-.88.57-1.9.9-2.94.98,3.45.41,3.87,1.46,2.49,6.82l-.49,2.15h-6.9l.28-1.22c.61-2.6.67-3.45.24-4.02s-.86-.63-3.78-.63h-10.04l-1.36,5.87h-7.06L35.92.04Zm14.33,11.5q3.56,0,4.14-.4c.57-.4,1-1.05,1.33-2.51s.24-2.23-.41-2.54c-.44-.21-.55-.21-3.74-.24h-9.94l-1.32,5.75,9.94-.06Z" class="b-g"></path><path d="m74.62.04l-5.36,23.19h-7.39L67.2.04h7.41Z" class="b-g"></path><path d="m90.68.04l3.45,15.06L104.47.04h12.73l-5.35,23.19h-6.9l4.17-17.35h-1.15l-12.77,17.35h-5.87l-4.77-17.35h-1.25l-3.83,17.35h-6.9L77.88.04h12.79Z" class="b-g"></path><path d="m146.08.04l-1.25,5.46h-18.7l-.78,3.37h17.76l-1.15,5.12h-17.79l-.85,3.68h18.85l-1.29,5.56h-25.8L120.43.04h25.66Z" class="b-g"></path></svg></div>
   <div class="pill grad"><b>PRE-WORKOUT</b></div>
   <div class="t1">BOOTY</div>
   <div class="t2 gtext">PUMP</div>
-  <div class="sub gtext">STIM-FREE PUMP FORMULA</div>
-  <div class="sub2">0 MG CAFFEINE · NO TINGLE · WITH ELECTROLYTES</div>
+  <div class="sub gtext">STIM-FREE PUMP · 0 MG CAFFEINE · ELECTROLYTES</div>
   <div class="badges">
     <div class="badge"><b>6 g</b>L-CITRULLINE</div>
     <div class="badge"><b>3 g</b>CREATINE</div>
@@ -91,8 +85,7 @@ body{width:2000px;height:1200px;background:radial-gradient(ellipse at 50% 35%,#f
     <div class="badge"><b>10 g</b>CYCLIC DEXTRIN</div>
     <div class="badge"><b>500 mg</b>CITICOLINE</div>
   </div>
-  <div class="day">MADE FOR LEG &amp; GLUTE DAYS</div>
-  <div class="flav gtext">FOREST FRUITS<small>FLAVOUR</small></div>
+  <div class="flav">FOREST FRUITS<small>FLAVOUR</small></div>
 </div></div><div class="shade"></div></div>
 </div>
 <div class="cap">MACHETĂ Booty Pump v2 · flacon alb, forma EAA / NitroX 3D · 500 g · Pink Lemonade și Forest Fruits · nu e pentru tipar</div>

diff --git a/primesupplements.ro-audit/produse-noi/booty-pump/macheta/eticheta-desfasurata-pink-lemonade.html b/primesupplements.ro-audit/produse-noi/booty-pump/macheta/eticheta-desfasurata-pink-lemonade.html
@@ -5,24 +5,21 @@ body{font-family:Poppins,Arial,sans-serif;color:#232323}
 .gtext{background:linear-gradient(100deg,#ec1e24 0%,#f2557f 60%,#f6a5c0 100%);-webkit-background-clip:text;background-clip:text;color:transparent}
 .front{position:relative;width:600px;height:560px;background:#fff;overflow:hidden;flex:none}
 .front .shape1{position:absolute;left:250px;top:-40px;width:420px;height:420px;background:#fde4ec;transform:skewX(-22deg)}
-.front .shape2{position:absolute;left:-60px;top:330px;width:330px;height:130px;transform:skewX(-22deg)}
-.front .lines{position:absolute;right:30px;top:300px;width:120px;height:46px;background:repeating-linear-gradient(-60deg,#f6a5c0 0 2px,transparent 2px 9px);opacity:.8}
-.front .vert{position:absolute;left:30px;top:470px;transform:rotate(-90deg);transform-origin:left top;font-size:16px;font-weight:700;letter-spacing:1px;white-space:nowrap}
+.front .lines{position:absolute;right:30px;top:200px;width:110px;height:40px;background:repeating-linear-gradient(-60deg,#f6a5c0 0 2px,transparent 2px 9px);opacity:.8}
+.front .vert{position:absolute;left:28px;top:330px;transform:rotate(-90deg);transform-origin:left top;font-size:15px;font-weight:700;letter-spacing:1px;white-space:nowrap;z-index:3}
 .front .vert span{font-weight:400;color:#b06a85}
-.front .logo{position:absolute;left:58px;top:40px}
-.front .pill{position:absolute;right:34px;top:48px;color:#fff;font-size:15px;letter-spacing:2px;padding:6px 16px;transform:skewX(-15deg)}
+.front .logo{position:absolute;left:58px;top:30px}
+.front .pill{position:absolute;right:34px;top:38px;color:#fff;font-size:15px;letter-spacing:2px;padding:6px 16px;transform:skewX(-15deg)}
 .front .pill b{display:inline-block;transform:skewX(15deg);font-weight:700}
-.front .ghost{position:absolute;left:170px;top:112px;font-size:96px;font-weight:900;letter-spacing:2px;color:transparent;-webkit-text-stroke:1.5px #f6a5c0;opacity:.9}
-.front .t1{position:absolute;left:56px;top:150px;font-size:118px;line-height:1;font-weight:900;letter-spacing:-1px;color:#232323}
-.front .t2{position:absolute;left:56px;top:262px;font-size:132px;line-height:1;font-weight:900;letter-spacing:-1px}
-.front .sub{position:absolute;left:60px;top:402px;font-size:15px;font-weight:700;letter-spacing:3px}
-.front .sub2{position:absolute;left:60px;top:424px;font-size:12.5px;font-weight:500;letter-spacing:2px;color:#9a6d7e}
-.front .badges{position:absolute;left:58px;top:456px;display:flex;gap:7px}
+.front .t1{position:absolute;left:54px;top:88px;font-size:100px;line-height:1;font-weight:900;letter-spacing:-1px;color:#232323}
+.front .t2{position:absolute;left:54px;top:178px;font-size:112px;line-height:1;font-weight:900;letter-spacing:-1px}
+.front .sub{position:absolute;left:58px;top:296px;font-size:13.5px;font-weight:700;letter-spacing:2.5px;white-space:nowrap}
+.front .badges{position:absolute;left:56px;top:322px;display:flex;gap:7px;z-index:3}
 .front .badge{border:1.5px solid #f6a5c0;border-radius:6px;padding:4px 7px;font-size:9.5px;line-height:1.15;font-weight:600;text-align:center;background:#fff}
 .front .badge b{display:block;font-size:15px;font-weight:800;color:#ec1e24}
-.front .flav{position:absolute;right:30px;bottom:22px;text-align:right;font-weight:800;font-size:17px;line-height:1}
-.front .flav small{display:block;font-weight:500;font-size:11px;color:#9a6d7e;letter-spacing:1px}
-.front .day{position:absolute;left:60px;bottom:24px;font-size:11px;font-weight:700;letter-spacing:2px;color:#9a6d7e}
+.front .splash{position:absolute;left:0;bottom:0;width:600px;height:236px;object-fit:cover;object-position:50% 80%;mix-blend-mode:multiply;z-index:1}
+.front .flav{position:absolute;right:26px;bottom:20px;text-align:right;font-weight:900;font-size:24px;line-height:1;color:#fff;letter-spacing:.5px;text-shadow:0 2px 10px rgba(110,0,40,.55),0 0 2px rgba(110,0,40,.5);z-index:3}
+.front .flav small{display:block;font-weight:600;font-size:12px;letter-spacing:2px;margin-top:3px}
 
 body{width:1600px;height:700px;background:#eee;padding:40px 50px}
 .sheet{display:flex;width:1500px;height:560px;background:#fff;box-shadow:0 2px 12px rgba(0,0,0,.15);position:relative}
@@ -53,15 +50,14 @@ td:last-child,th:last-child{text-align:right;white-space:nowrap}
   
 <div class="front">
   <div class="shape1"></div>
-  <div class="shape2 grad" style="opacity:.16"></div>
   <div class="lines"></div>
+  <img class="splash" src="splash-pink-lemonade.png" alt="">
   <div class="vert">500g <span>/ 18 SERVINGS</span></div>
   <div class="logo"><svg width="210" viewBox="0 0 226.77 57.52" xmlns="http://www.w3.org/2000/svg" ><defs><linearGradient id="f-grad" gradientUnits="userSpaceOnUse" x1="0" y1="0" x2="226.77" y2="57.52"><stop offset="0" stop-color="#ec1e24"/><stop offset=".55" stop-color="#f2557f"/><stop offset="1" stop-color="#f6a5c0"/></linearGradient><style>.f-t{fill:#232323;}.f-g{fill:url(#f-grad);}</style></defs><polygon points="226.77 12.8 164.75 44.72 173.96 26.8 203 11.53 181.81 11.53 187.46 .56 219.01 .56 226.77 12.8" class="f-g"></polygon><polygon points="183.77 .56 159.7 47.4 140.04 57.52 163.97 10.82 157.06 .56 183.77 .56" class="f-g"></polygon><path d="m.68,27.63c0-.1.08-.17.17-.17h.59c.1,0,.17.08.17.17v2.48h3.26v-2.48c0-.09.07-.17.16-.17h.59c.1,0,.17.08.17.17v5.9c0,.1-.08.17-.17.17h-.59c-.09,0-.16-.08-.16-.17v-2.62H1.61v2.57c0,.1-.08.17-.17.17h-.59c-.1,0-.17-.08-.17-.17v-5.85Z" class="f-t"></path><path d="m6.85,33.38l2.74-5.99c.03-.06.09-.1.15-.1h.09c.06,0,.12.05.15.1l2.71,5.99c.04.08.02.18-.06.22-.03.02-.06.02-.09.02h-.56c-.09,0-.17-.05-.2-.14l-.49-1.18h-2.98c-.17.4-.37.8-.54,1.22-.04.08-.12.13-.21.14h-.56c-.09.02-.17-.03-.2-.11-.02-.06,0-.12.05-.16Zm4.03-1.89l-1.09-2.44h0l-1.09,2.44h2.18Z" class="f-t"></path><path d="m13.75,27.63c0-.1.08-.17.17-.17h2.43c1.06-.01,1.93.84,1.94,1.9,0,0,0,0,0,.01-.06.78-.58,1.45-1.32,1.71l1.22,2.3c.05.08.03.19-.05.24-.03.02-.06.03-.1.03h-.69c-.06,0-.12-.03-.15-.08l-1.15-2.37h-1.38v2.3c0,.1-.08.17-.17.17h-.57c-.1,0-.17-.08-.17-.17h0v-5.86Zm2.53,2.85c.6,0,1.08-.48,1.08-1.08,0-.6-.48-1.08-1.08-1.08h-1.54v2.16h1.54Z" class="f-t"></path><path d="m19.84,27.63c0-.09.07-.17.16-.17h2.05c1.72-.1,3.21,1.21,3.31,2.93.1,1.72-1.21,3.21-2.93,3.31-.13,0-.25,0-.38,0h-2.05c-.09,0-.16-.08-.16-.17v-5.9Zm2.08,5.22c1.27,0,2.3-1.03,2.3-2.3s-1.03-2.3-2.3-2.3h-1.15v4.6h1.15Z" class="f-t"></path><path d="m29.38,27.32c.8-.02,1.58.28,2.16.83.07.06.07.17,0,.24,0,0,0,0,0,0l-.39.4c-.04.06-.13.08-.19.04-.02-.01-.03-.02-.04-.04-.43-.38-.97-.59-1.54-.6-1.27,0-2.3,1.03-2.3,2.3s1.03,2.3,2.3,2.3c.57,0,1.12-.2,1.55-.57.06-.05.15-.05.22,0l.41.4c.07.07.07.17,0,.24-.58.56-1.36.87-2.17.86-1.77,0-3.21-1.44-3.21-3.21s1.44-3.21,3.21-3.21h-.01Z" class="f-t"></path><path d="m35.71,27.32c1.77,0,3.21,1.42,3.22,3.2s-1.42,3.21-3.2,3.22c-1.77,0-3.21-1.42-3.22-3.2,0-1.77,1.42-3.21,3.2-3.22h0Zm0,5.53c1.27,0,2.3-1.03,2.3-2.3s-1.03-2.3-2.3-2.3-2.3,1.03-2.3,2.3,1.03,2.3,2.3,2.3t0,0Z" class="f-t"></path><path d="m40.35,27.63c0-.1.08-.17.17-.17h2.43c1.06-.01,1.93.84,1.94,1.9,0,0,0,0,0,.01-.06.78-.58,1.46-1.32,1.71l1.23,2.3c.05.08.03.19-.05.24-.03.02-.07.03-.11.03h-.69c-.06,0-.11-.03-.15-.08l-1.15-2.37h-1.38v2.3c0,.09-.07.17-.16.17h-.59c-.1,0-.17-.08-.17-.17h0v-5.86Zm2.53,2.85c.6,0,1.08-.48,1.08-1.08s-.48-1.08-1.08-1.08h-1.59v2.16h1.59Z" class="f-t"></path><path d="m46.44,27.63c0-.1.08-.17.17-.17h3.56c.09-.01.18.05.19.15,0,0,0,.02,0,.02v.49c0,.1-.08.17-.17.17h-2.84v1.82h2.38c.1,0,.17.08.17.17h0v.49c0,.1-.08.17-.17.17h-2.38v1.91h2.82c.1,0,.17.08.17.17h0v.49c0,.1-.08.17-.17.17h-3.56c-.1,0-.17-.08-.17-.17h0s0-5.9,0-5.9Z" class="f-t"></path><path d="m55.7,32.74c.08-.11.15-.25.23-.37.05-.1.18-.14.28-.09.01,0,.02.01.03.02.4.35.9.57,1.43.62.49.06.94-.29,1-.78,0-.01,0-.03,0-.04,0-.54-.46-.87-1.34-1.24s-1.62-.86-1.62-1.9c.05-.96.87-1.7,1.84-1.65.04,0,.08,0,.12.01.59,0,1.16.19,1.64.53.08.07.09.19.02.28,0,0-.02.02-.02.02l-.22.34c-.05.1-.17.15-.27.1-.01,0-.02-.01-.04-.02-.35-.23-.74-.38-1.15-.44-.75,0-1.01.47-1.01.79,0,.52.39.83,1.15,1.15,1.03.43,1.91.91,1.91,2-.07,1-.94,1.75-1.94,1.68-.01,0-.02,0-.04,0-.7.01-1.39-.24-1.92-.7-.09-.09-.16-.16-.07-.31Z" class="f-t"></path><path d="m61.05,27.63c0-.09.07-.17.16-.17h2.03c1.09,0,1.98.87,2,1.97,0,1.1-.89,2-1.99,2.01h-1.3v2.09c0,.09-.07.17-.16.17h-.59c-.09,0-.16-.08-.16-.17v-5.9Zm2.14,2.93c.63,0,1.15-.51,1.15-1.15-.04-.6-.54-1.07-1.15-1.07h-1.23v2.22h1.23Z" class="f-t"></path><path d="m69.25,27.32c1.77,0,3.21,1.42,3.22,3.2s-1.42,3.21-3.2,3.22c-1.77,0-3.21-1.42-3.22-3.2,0-1.77,1.42-3.21,3.2-3.22h0Zm0,5.53c1.27,0,2.3-1.03,2.3-2.3s-1.03-2.3-2.3-2.3-2.3,1.03-2.3,2.3,1.03,2.3,2.3,2.3h0Z" class="f-t"></path><path d="m73.89,27.63c0-.1.08-.17.17-.17h2.43c1.06-.01,1.93.84,1.94,1.9,0,0,0,0,0,.01-.06.78-.58,1.45-1.32,1.71l1.22,2.3c.05.08.03.19-.05.24-.03.02-.06.03-.1.03h-.69c-.06,0-.12-.03-.15-.08l-1.15-2.37h-1.38v2.3c0,.1-.08.17-.17.17h-.57c-.1,0-.17-.08-.17-.17h0v-5.86Zm2.53,2.85c.6,0,1.08-.48,1.08-1.08s-.48-1.08-1.08-1.08h-1.59v2.16h1.59Z" class="f-t"></path><path d="m80.84,28.25h-1.45c-.1,0-.17-.08-.17-.17h0v-.45c0-.1.08-.17.17-.17h3.83c.1,0,.17.08.17.17h0v.49c0,.1-.08.17-.17.17h-1.45v5.23c0,.1-.08.17-.17.17h-.59c-.1,0-.17-.08-.17-.17h0s0-5.28,0-5.28Z" class="f-t"></path><path d="m84.11,32.74c.08-.11.15-.25.23-.37.05-.1.16-.14.26-.09.01,0,.03.01.04.02.4.35.9.56,1.43.62.49.06.94-.28,1.01-.77,0-.02,0-.04,0-.06,0-.54-.46-.87-1.34-1.24s-1.62-.86-1.62-1.9c.04-.96.85-1.7,1.81-1.66.05,0,.1,0,.14.01.59,0,1.16.19,1.64.53.08.08.09.21,0,.29,0,0,0,0,0,0l-.23.34c-.05.1-.17.15-.27.1-.01,0-.02-.01-.04-.02-.34-.23-.74-.38-1.15-.44-.76,0-1.01.47-1.01.79,0,.52.39.83,1.15,1.15,1.03.43,1.92.91,1.92,2-.07,1-.94,1.75-1.94,1.68-.02,0-.03,0-.05,0-.7,0-1.38-.24-1.91-.7-.09-.09-.16-.16-.07-.31Z" class="f-t"></path><path d="m93.7,27.48c0-.09.08-.16.17-.16h.18l3.87,4.47h0v-4.16c0-.09.07-.17.16-.17h.57c.1,0,.17.08.17.17h0v5.99c0,.09-.08.16-.17.16h-.23l-3.87-4.6h0v4.35c0,.1-.08.17-.17.17h-.56c-.1,0-.17-.08-.17-.17h0s.05-6.05.05-6.05Z" class="f-t"></path><path d="m100.69,27.63c0-.1.08-.17.17-.17h.6c.1,0,.17.08.17.17h0v3.68c-.07.82.54,1.55,1.36,1.62.82.07,1.55-.54,1.62-1.36,0-.09,0-.17,0-.26v-3.68c0-.1.08-.17.17-.17h.59c.1,0,.18.07.18.16,0,0,0,0,0,.01v3.74c0,1.34-1.09,2.43-2.43,2.43s-2.43-1.09-2.43-2.43h0v-3.74Z" class="f-t"></path><path d="m108.21,28.25h-1.45c-.1,0-.17-.08-.17-.17h0v-.45c0-.1.08-.17.17-.17h3.83c.1,0,.17.08.17.17h0v.49c0,.1-.08.17-.17.17h-1.45v5.23c0,.1-.08.17-.17.17h-.59c-.1,0-.17-.08-.17-.17h0s0-5.28,0-5.28Z" class="f-t"></path><path d="m111.89,27.63c0-.09.07-.17.16-.17h2.43c1.06-.01,1.93.84,1.94,1.9,0,0,0,0,0,.01-.06.78-.57,1.45-1.31,1.71l1.22,2.3c.05.08.03.19-.05.24-.03.02-.06.03-.1.03h-.7c-.06,0-.11-.03-.14-.08l-1.15-2.37h-1.34v2.3c0,.1-.08.17-.17.17h-.59c-.09,0-.16-.08-.16-.17l-.03-5.86Zm2.52,2.85c.6,0,1.08-.48,1.08-1.08s-.48-1.08-1.08-1.08h-1.59v2.16h1.59Z" class="f-t"></path><path d="m117.97,27.63c0-.1.08-.17.17-.17h.59c.1,0,.17.08.17.17v5.9c0,.1-.08.17-.17.17h-.53c-.1,0-.17-.08-.17-.17l-.06-5.9Z" class="f-t"></path><path d="m121.65,28.25h-1.45c-.1,0-.17-.08-.17-.17v-.45c0-.1.08-.17.17-.17h3.83c.1,0,.17.08.17.17v.49c0,.1-.08.17-.17.17h-1.45v5.23c0,.1-.08.17-.17.17h-.59c-.1,0-.17-.08-.17-.17v-5.28Z" class="f-t"></path><path d="m125.32,27.63c0-.09.07-.17.16-.17h.59c.1,0,.17.08.17.17h0v5.9c0,.1-.08.17-.17.17h-.59c-.09,0-.16-.08-.16-.17v-5.9Z" class="f-t"></path><path d="m130.84,27.32c1.77,0,3.21,1.44,3.21,3.21s-1.44,3.21-3.21,3.21-3.21-1.44-3.21-3.21,1.44-3.21,3.21-3.21Zm0,5.53c1.27,0,2.3-1.03,2.3-2.3s-1.03-2.3-2.3-2.3-2.3,1.03-2.3,2.3,1.03,2.3,2.3,2.3h0Z" class="f-t"></path><path d="m135.53,27.48c0-.09.07-.16.16-.16h.23l3.86,4.47h0v-4.16c0-.1.08-.17.17-.17h.56c.1,0,.17.08.17.17v5.99c0,.09-.08.16-.17.16h-.23l-3.86-4.6h0v4.35c0,.1-.08.17-.17.17h-.56c-.09,0-.16-.08-.16-.17v-6.05Z" class="f-t"></path><path d="m5.78.04h15.85c2.08-.09,4.17-.02,6.24.21,4.23.67,5.05,2.54,3.68,8.48-1.15,5.15-2.6,7.16-5.61,8.17-1.69.52-3.29.66-8.29.66h-8.86l-1.31,5.67H.43L5.78.04Zm13.17,11.71c3.28,0,3.45,0,4.09-.38s1.15-1.05,1.48-2.64.23-2.37-.6-2.68c-.45-.17-.52-.17-3.61-.21h-8.83l-1.36,5.91h8.82Z" class="f-g"></path><path d="m35.92.04h17.07q8.05,0,9.28.91c1.53,1.07,1.69,2.6.76,6.63-.79,3.45-1.45,4.77-2.91,5.75-.88.57-1.9.9-2.94.98,3.45.41,3.87,1.46,2.49,6.82l-.49,2.15h-6.9l.28-1.22c.61-2.6.67-3.45.24-4.02s-.86-.63-3.78-.63h-10.04l-1.36,5.87h-7.06L35.92.04Zm14.33,11.5q3.56,0,4.14-.4c.57-.4,1-1.05,1.33-2.51s.24-2.23-.41-2.54c-.44-.21-.55-.21-3.74-.24h-9.94l-1.32,5.75,9.94-.06Z" class="f-g"></path><path d="m74.62.04l-5.36,23.19h-7.39L67.2.04h7.41Z" class="f-g"></path><path d="m90.68.04l3.45,15.06L104.47.04h12.73l-5.35,23.19h-6.9l4.17-17.35h-1.15l-12.77,17.35h-5.87l-4.77-17.35h-1.25l-3.83,17.35h-6.9L77.88.04h12.79Z" class="f-g"></path><path d="m146.08.04l-1.25,5.46h-18.7l-.78,3.37h17.76l-1.15,5.12h-17.79l-.85,3.68h18.85l-1.29,5.56h-25.8L120.43.04h25.66Z" class="f-g"></path></svg></div>
   <div class="pill grad"><b>PRE-WORKOUT</b></div>
   <div class="t1">BOOTY</div>
   <div class="t2 gtext">PUMP</div>
-  <div class="sub gtext">STIM-FREE PUMP FORMULA</div>
-  <div class="sub2">0 MG CAFFEINE · NO TINGLE · WITH ELECTROLYTES</div>
+  <div class="sub gtext">STIM-FREE PUMP · 0 MG CAFFEINE · ELECTROLYTES</div>
   <div class="badges">
     <div class="badge"><b>6 g</b>L-CITRULLINE</div>
     <div class="badge"><b>3 g</b>CREATINE</div>
@@ -69,8 +65,7 @@ td:last-child,th:last-child{text-align:right;white-space:nowrap}
     <div class="badge"><b>10 g</b>CYCLIC DEXTRIN</div>
     <div class="badge"><b>500 mg</b>CITICOLINE</div>
   </div>
-  <div class="day">MADE FOR LEG &amp; GLUTE DAYS</div>
-  <div class="flav gtext">PINK LEMONADE<small>FLAVOUR</small></div>
+  <div class="flav">PINK LEMONADE<small>FLAVOUR</small></div>
 </div>
   <div class="side">
     <div class="bar grad"></div>

diff --git a/primesupplements.ro-audit/JURNAL.md b/primesupplements.ro-audit/JURNAL.md
@@ -1653,3 +1653,4 @@ Fiecare sesiune adaugă aici, pe scurt, ce a schimbat (data, zona, ce s-a făcut
 - 17.11: Booty Pump – decis fără L-leucină (trecut în formulă și în istoric).
 - 17.11: **Booty Pump – decizii + machetă:** dextrină 10 g, electroliți da, arome Pink Lemonade și Forest Fruits, 500 g (≈18 porții la ~27 g). Machetă desenată (flacon alb ca EAA/NitroX 3D, etichetă albă, logo Prime în degrade roșu → roz): `produse-noi/booty-pump/macheta/` (2 PNG + `build-macheta.mjs`).
 - 17.11: Booty Pump – confirmat 500 g / 18 porții.
+- 17.11 (seara): **macheta cu splash de aromă** (cerut de Marius: „să pară foarte bun la gust”): 2 splash-uri generate cu OpenArt (Nano Banana 2.1, 2K, 2 × 25 credite din planul Plus contact@): limonadă roz cu lămâie/grepfrut, zmeură, mentă și gheață; fructe de pădure (zmeură, mure, afine, căpșună, coacăze). Puse în partea de jos a feței etichetei (blend multiply pe alb), aroma scrisă cu alb peste lichid; titlul și căsuțele urcate. Fișiere: `produse-noi/booty-pump/macheta/splash-*.png` + PNG-urile machetei refăcute.

diff --git a/primesupplements.ro-audit/ISTORIC-DISCUTII.md b/primesupplements.ro-audit/ISTORIC-DISCUTII.md
@@ -588,3 +588,4 @@ Cererea proprietarului: un instrument gratuit pentru sportivii care au fost deja
 - **17.11 – decizie Marius:** Booty Pump fără L-leucină (alternativa: pachet cu whey/EAA).
 - **17.11 – decizii Marius (Booty Pump):** dextrină ciclică 10 g; cu electroliți; arome Pink Lemonade și fructe de pădure; 500 g. Ambalaj: flacon alb de forma EAA/NitroX 3D, etichetă albă, logo Prime în degrade de la roșu la roz deschis, nuanțe de roz. Mai e deschisă doar arginina.
 - **17.11 – decizie Marius:** Booty Pump rămâne 500 g / 18 porții.
+- **17.11 – Booty Pump, ambalaj:** pe față intră splash-ul aromei (fructe + lichid), ca să pară foarte bun la gust (cerut de Marius). Splash-urile din machetă sunt generate cu AI, ca direcție pentru agenție.
